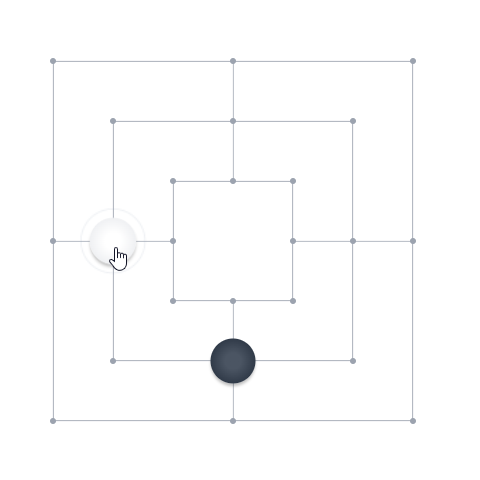
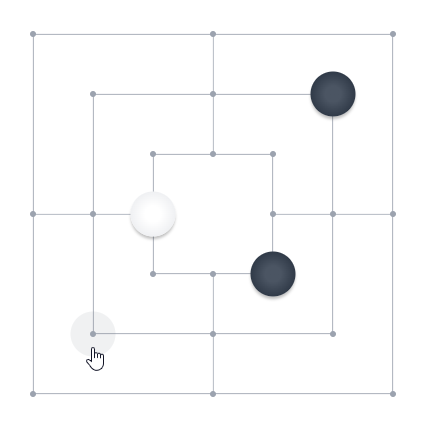
🍱 도움말 사진 변경

diff --git a/web/src/pages/Game/HelpModal.tsx b/web/src/pages/Game/HelpModal.tsx
@@ -26,7 +26,7 @@ const contents = [
     ),
   },
   {
-    imageSrc: example3,
+    imageSrc: example2,
     text: (
       <>
         <div>
@@ -44,7 +44,7 @@ const contents = [
     ),
   },
   {
-    imageSrc: example2,
+    imageSrc: example3,
     text: (
       <>
         <div>
@@ -91,8 +91,8 @@ export function HelpModal({ visible, onClose }: HelpModalProps) {
             src={contents[page].imageSrc}
             className="h-64 w-64 items-center rounded-lg"
           />
-          <div className="flex w-80 flex-col gap-2">
-            {contents[page].text}{' '}
+          <div className="flex w-80 flex-col gap-2 p-2">
+            {contents[page].text}
             <span className="text-sm text-gray-500">({page + 1}/3)</span>
           </div>
         </div>
